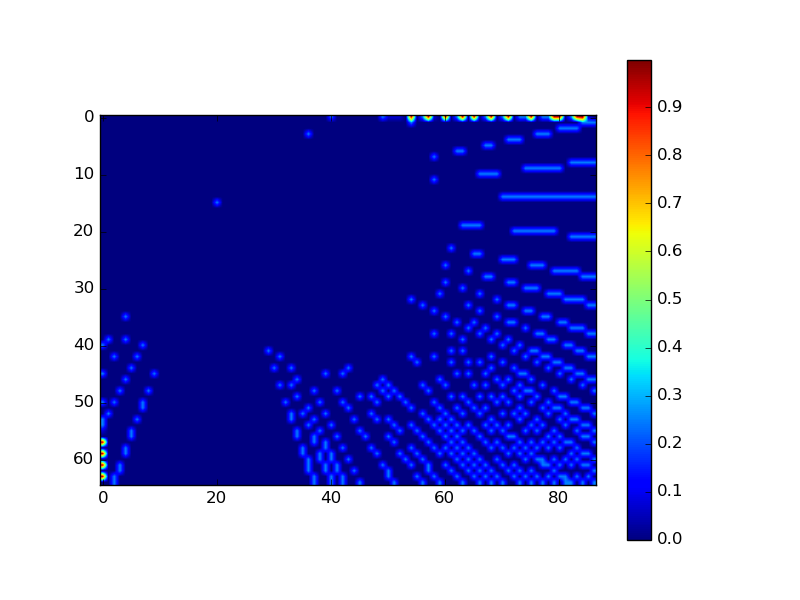
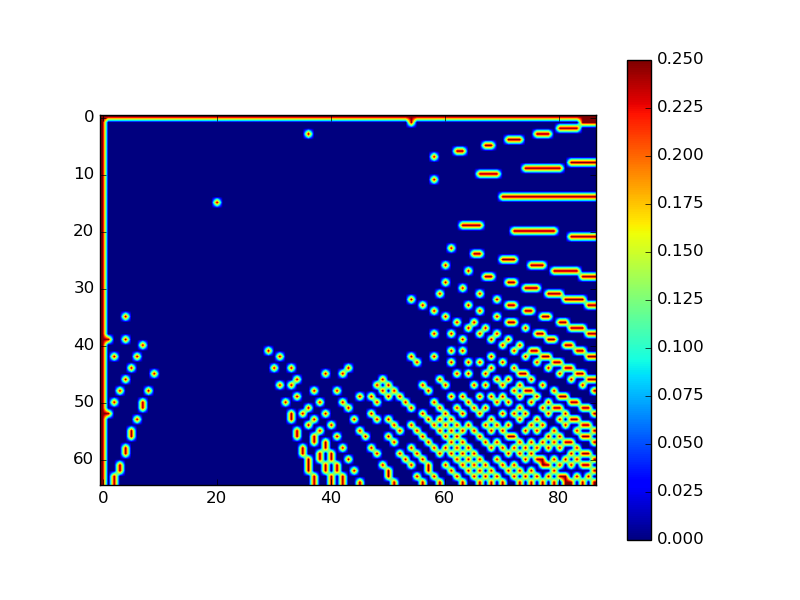
Fixed the noise function

diff --git a/Mapping/LiSim/sim.py b/Mapping/LiSim/sim.py
@@ -47,25 +47,34 @@ class Lidar:
     def give_carte(self):
         return self.carte
 
-    def noise(self, clean_data):
+    def _noise(self, clean_data, dev, esp=0):
         '''Function that adds noise from a normal distribution to the data provided to mimic real world'''
         data = np.array(clean_data)
-        noise = np.random.normal(self.mu,self.std,[int(360/self.angle_step),2])
+        noise = np.random.normal(esp,dev,clean_data.shape)
         return noise+clean_data
-
-    def simulate(self, show=False):
+    
+    def simulate(self, show=False, uPos=2, uDist=2, uTheta=1.25):
         '''Simulates data from one complete lidar rotation'''
         data=[]
         if show == True:
             print(self.carte)
         for i in range(int(360/self.angle_step)):
             current_ray = 1
+            theta = i
             while True:
                 x_current = int(m.cos(m.radians(i))*current_ray)
                 y_current = int(m.sin(m.radians(i))*current_ray)
 
                 if self.carte[x_current+self.pos[0]][y_current+self.pos[1]] == 1:
-                    data.append((current_ray , i))
+                    data.append([current_ray, theta])
                     break
                 current_ray += self.ray_step
-        return np.array(data)
+
+        data = np.array(data)
+
+        #Add noise to the data
+        data[:,0] = self._noise(data[:,0], uDist)
+        data[:,1] = self._noise(data[:,1], uTheta)
+
+
+        return data

diff --git a/Mapping/Map.py b/Mapping/Map.py
@@ -13,7 +13,7 @@ dim = (65,87)
 pos = (15,20)
 logodd_occ = 0.9
 logodd_free = 0.7
-norm_scale = 5
+norm_scale = 10
 carte = np.zeros(dim)
 carte[pos[0]][pos[1]] = 1000
 lidar = sim.Lidar(dim=dim,pos=pos)
@@ -65,16 +65,18 @@ def save_and_plot(plot=False):
 measure = lidar.simulate(show=False)
 lidar.plot_map(show=False)
 
-for i in range(360):
+for i in range(len(measure)):
 
     occ = (np.matmul( rotation(measure[i][1]), [measure[i][0],0] ) + pos).astype(int)
 
-    carte[occ[0]][occ[1]] += logodd_occ
+    #If the value is out of range, do nothing here
+    if (0<occ[0]<dim[0]) and (0<occ[1]<dim[1]):
+        carte[occ[0]][occ[1]] += logodd_occ
 
     #Draw a line Lidar <-> Point, and register all points on the line as unoccupied (the lidar would have detected if not)
     points = np.array(list(bresenham(occ[0],occ[1],pos[0],pos[1])))
     for x,y in points:
-        if x!=occ[0] or y!=occ[1]:
+        if (x!=occ[0] or y!=occ[1]) and (0<x<dim[0]) and (0<y<dim[1]):
             carte[x][y] -= logodd_free
 
 
